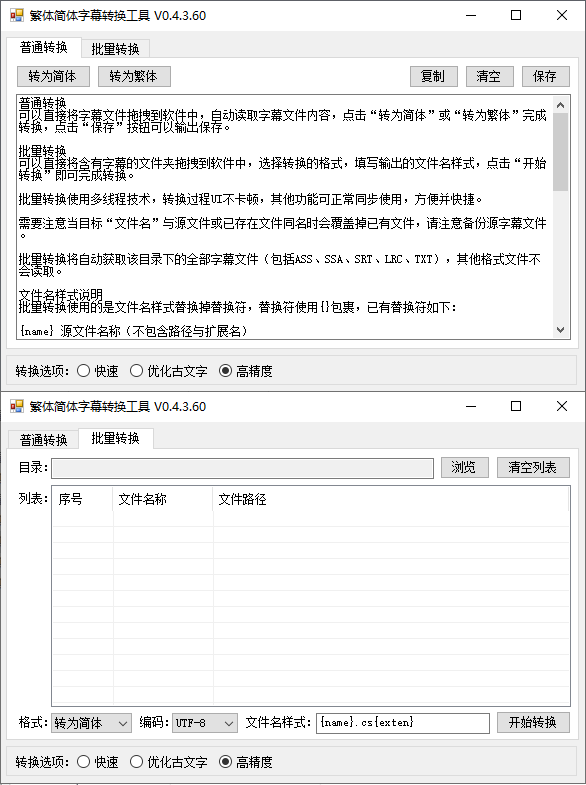
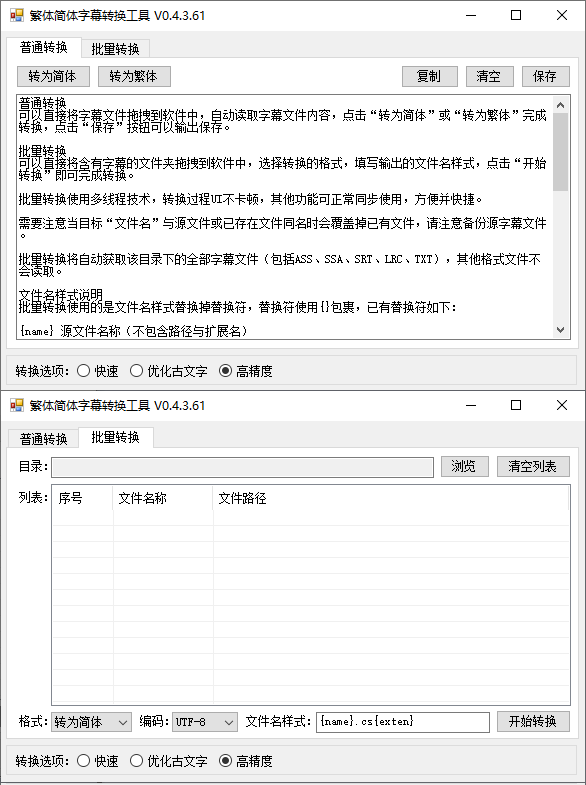
修复高精度可用性检查
微调界面UI布局
版本 V0.4.3.61

diff --git a/ChineseSubtitleConversionTool/FormMain.Designer.cs b/ChineseSubtitleConversionTool/FormMain.Designer.cs
@@ -44,6 +44,7 @@
             this.label1 = new System.Windows.Forms.Label();
             this.tabControlMain = new System.Windows.Forms.TabControl();
             this.tabPageCommon = new System.Windows.Forms.TabPage();
+            this.progressBarPercentage = new System.Windows.Forms.ProgressBar();
             this.btnCopy = new System.Windows.Forms.Button();
             this.tabPageBatch = new System.Windows.Forms.TabPage();
             this.btnClearList = new System.Windows.Forms.Button();
@@ -57,7 +58,6 @@
             this.rbConvertQuick = new System.Windows.Forms.RadioButton();
             this.label6 = new System.Windows.Forms.Label();
             this.groupConvertOption = new System.Windows.Forms.GroupBox();
-            this.progressBarPercentage = new System.Windows.Forms.ProgressBar();
             this.tabControlMain.SuspendLayout();
             this.tabPageCommon.SuspendLayout();
             this.tabPageBatch.SuspendLayout();
@@ -237,12 +237,23 @@
             this.tabPageCommon.Text = "普通转换";
             this.tabPageCommon.UseVisualStyleBackColor = true;
             // 
+            // progressBarPercentage
+            // 
+            this.progressBarPercentage.Anchor = ((System.Windows.Forms.AnchorStyles)(((System.Windows.Forms.AnchorStyles.Top | System.Windows.Forms.AnchorStyles.Left) 
+            | System.Windows.Forms.AnchorStyles.Right)));
+            this.progressBarPercentage.Location = new System.Drawing.Point(169, 6);
+            this.progressBarPercentage.Name = "progressBarPercentage";
+            this.progressBarPercentage.Size = new System.Drawing.Size(216, 23);
+            this.progressBarPercentage.Step = 1;
+            this.progressBarPercentage.TabIndex = 2;
+            this.progressBarPercentage.Visible = false;
+            // 
             // btnCopy
             // 
             this.btnCopy.Anchor = ((System.Windows.Forms.AnchorStyles)((System.Windows.Forms.AnchorStyles.Top | System.Windows.Forms.AnchorStyles.Right)));
-            this.btnCopy.Location = new System.Drawing.Point(399, 6);
+            this.btnCopy.Location = new System.Drawing.Point(391, 6);
             this.btnCopy.Name = "btnCopy";
-            this.btnCopy.Size = new System.Drawing.Size(50, 23);
+            this.btnCopy.Size = new System.Drawing.Size(58, 23);
             this.btnCopy.TabIndex = 1;
             this.btnCopy.Text = "复制";
             this.btnCopy.UseVisualStyleBackColor = true;
@@ -398,17 +409,6 @@
             this.groupConvertOption.Size = new System.Drawing.Size(571, 38);
             this.groupConvertOption.TabIndex = 5;
             this.groupConvertOption.TabStop = false;
-            // 
-            // progressBarPercentage
-            // 
-            this.progressBarPercentage.Anchor = ((System.Windows.Forms.AnchorStyles)(((System.Windows.Forms.AnchorStyles.Top | System.Windows.Forms.AnchorStyles.Left) 
-            | System.Windows.Forms.AnchorStyles.Right)));
-            this.progressBarPercentage.Location = new System.Drawing.Point(169, 6);
-            this.progressBarPercentage.Name = "progressBarPercentage";
-            this.progressBarPercentage.Size = new System.Drawing.Size(224, 23);
-            this.progressBarPercentage.Step = 1;
-            this.progressBarPercentage.TabIndex = 2;
-            this.progressBarPercentage.Visible = false;
             // 
             // FormMain
             // 

diff --git a/ChineseSubtitleConversionTool/Properties/AssemblyInfo.cs b/ChineseSubtitleConversionTool/Properties/AssemblyInfo.cs
@@ -32,5 +32,5 @@ using System.Runtime.InteropServices;
 // 可以指定所有值，也可以使用以下所示的 "*" 预置版本号和修订号
 // 方法是按如下所示使用“*”: :
 // [assembly: AssemblyVersion("1.0.*")]
-[assembly: AssemblyVersion("0.4.3.60")]
-[assembly: AssemblyFileVersion("0.4.3.60")]
+[assembly: AssemblyVersion("0.4.3.61")]
+[assembly: AssemblyFileVersion("0.4.3.61")]

diff --git a/ChineseSubtitleConversionTool/FormMain.cs b/ChineseSubtitleConversionTool/FormMain.cs
@@ -42,6 +42,8 @@ namespace ChineseSubtitleConversionTool
 
             try
             {
+                OfficeWordConvert owc = new OfficeWordConvert();
+                owc.Dispose();
                 rbConvertHigh.Enabled = true;
                 rbConvertHigh.Checked = true;
             }
